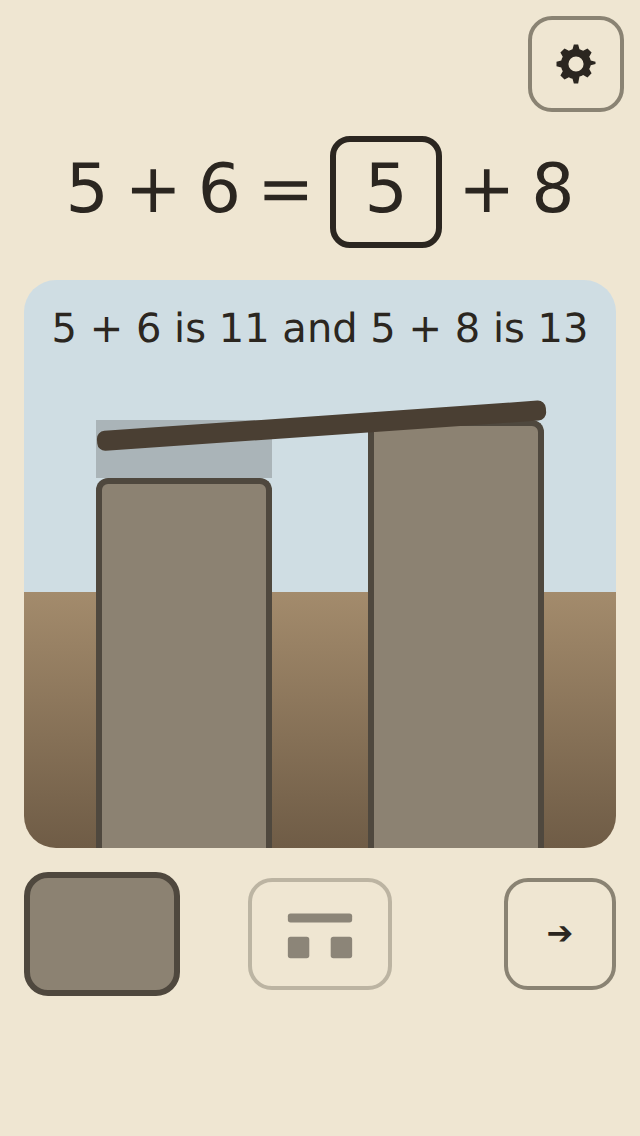
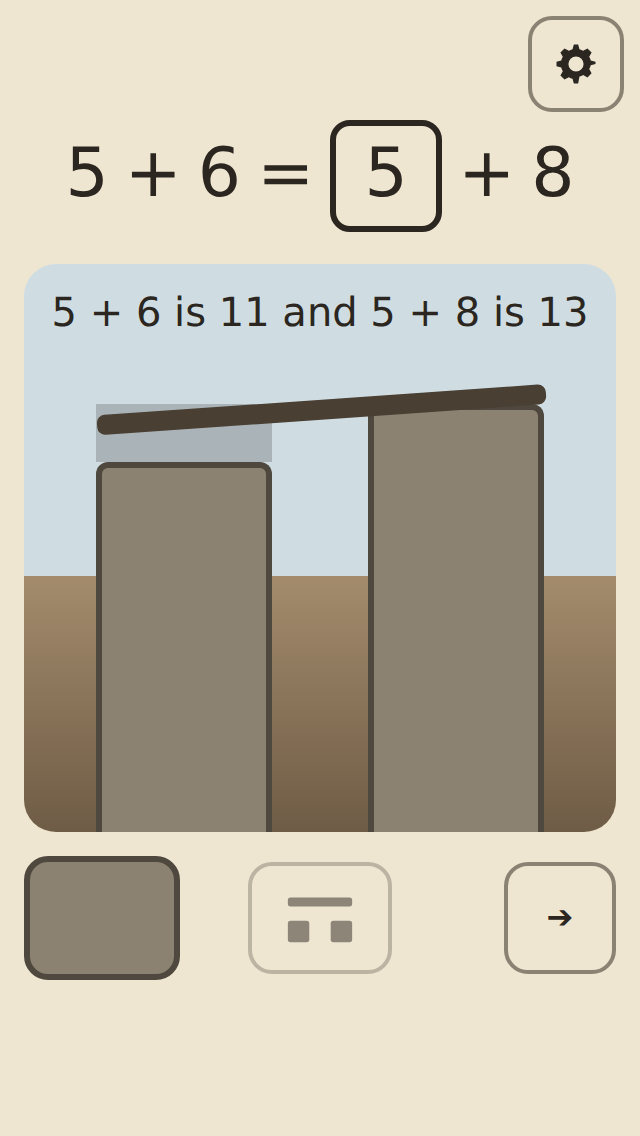
Math catalog SPAN P2 step 2: Mode 3 RELATIONAL with a stone 1, a slab 10 and a block 100, numerals on each, Shift and Page Up by keys; the equation's sides unbreakable and set smaller after shots showed a split side and the lay control under a 320x568 screen; every new law watched red
Claude-Session: https://claude.ai/code/session_01SRMtHXtJx3kNJPZ7viGJpE

diff --git a/satellites/span/main.js b/satellites/span/main.js
@@ -59,9 +59,14 @@ audio.define({
 const el = id => document.getElementById(id);
 const equationEl = el('equation'), canyon = el('canyon'), pierL = el('pier-left'), pierR = el('pier-right');
 const spanEl = el('span'), shortfall = el('shortfall'), caption = el('caption'), stack = el('stack');
-const source = document.querySelector('#supply .stone-source'), layBtn = el('lay'), nextBtn = el('next');
+const sources = Array.from(document.querySelectorAll('#supply .stone-source')), layBtn = el('lay'), nextBtn = el('next');
 const sameBtn = el('same'), apartBtn = el('apart');
-source.setAttribute('aria-label', COPY.stone);
+/* a stone is 1, a slab 10 and a block 100; in RELATIONAL each carries its numeral, the quantity on the object */
+sources.forEach(src => {
+  const value = Number(src.dataset.value);
+  src.setAttribute('aria-label', value === 100 ? COPY.block : value === 10 ? COPY.slab : COPY.stone);
+  if (MODE === 'relational') src.textContent = String(value);
+});
 layBtn.setAttribute('aria-label', COPY.lay);
 nextBtn.setAttribute('aria-label', COPY.next);
 sameBtn.setAttribute('aria-label', COPY.same);
@@ -92,19 +97,24 @@ const sideText = (terms, fill, value, first) => terms.length === 1
 /* two thirds of the way up, so the pier tops stand clear of the horizon and never read as the ground's edge */
 const neutral = () => BASE + (canyon.clientHeight - BASE - TOP_ROOM) * 2 / 3;
 
+/* each side is one group that never breaks across lines, so the equation can only wrap at the sign */
 function renderEquation() {
   equationEl.textContent = '';
-  const add = (t, side) => {
+  const add = (parent, t, side) => {
     const span = document.createElement('span');
     span.className = 'term';
     if (t.op) { span.dataset.op = t.op; span.textContent = t.op === '-' ? '−' : t.op; }
     else if (t.blank) { span.dataset.blank = ''; span.dataset.side = side; span.dataset.count = String(count); span.textContent = count ? String(count) : ''; }
     else { span.dataset.n = String(t.n); span.dataset.side = side; span.textContent = String(t.n); }
-    equationEl.append(span);
+    parent.append(span);
   };
-  eq().left.forEach(t => add(t, 'left'));
-  add({ op: '=' });
-  eq().right.forEach(t => add(t, 'right'));
+  const group = side => { const g = document.createElement('span'); g.className = 'side'; g.dataset.group = side; return g; };
+  const left = group('left'), right = group('right');
+  eq().left.forEach(t => add(left, t, 'left'));
+  eq().right.forEach(t => add(right, t, 'right'));
+  equationEl.append(left);
+  add(equationEl, { op: '=' });
+  equationEl.append(right);
 }
 
 /* while building: one neutral height for both piers, whatever the stones; the stones as a labelled stack on the
@@ -248,16 +258,17 @@ const pierAt = (x, y) => {
   return hit.closest('#stack') ? blankPier() : hit.closest('#pier-left, #pier-right');
 };
 let press = null;
-source.addEventListener('pointerdown', e => {
+sources.forEach(src => src.addEventListener('pointerdown', e => {
   if (laid) return;
   e.preventDefault();
   const ghost = document.createElement('div');
   ghost.className = 'ghost';
   ghost.style.left = e.clientX + 'px'; ghost.style.top = e.clientY + 'px';
   document.body.append(ghost);
-  press = { id: e.pointerId, x: e.clientX, y: e.clientY, ghost, stack: false };
-  press.timer = setTimeout(() => { if (press && !press.moved) { press.stack = true; addStones(5); } }, 500);
-});
+  press = { id: e.pointerId, x: e.clientX, y: e.clientY, ghost, stack: false, value: Number(src.dataset.value) };
+  /* a long press puts down five of what was pressed */
+  press.timer = setTimeout(() => { if (press && !press.moved) { press.stack = true; addStones(5 * press.value); } }, 500);
+}));
 window.addEventListener('pointermove', e => {
   if (!press || e.pointerId !== press.id) return;
   if (Math.hypot(e.clientX - press.x, e.clientY - press.y) > 12) press.moved = true;
@@ -268,7 +279,7 @@ window.addEventListener('pointerup', e => {
   clearTimeout(press.timer);
   press.ghost.remove();
   const target = pierAt(e.clientX, e.clientY);
-  if (!press.stack && target && target === blankPier()) addStones(1);
+  if (!press.stack && target && target === blankPier()) addStones(press.value);
   press = null;
 });
 let pierPress = null;
@@ -283,8 +294,9 @@ let pierPress = null;
 canyon.addEventListener('keydown', e => {
   if (e.key === 'ArrowLeft') { selected = 'left'; drawBuild(); }
   else if (e.key === 'ArrowRight') { selected = 'right'; drawBuild(); }
-  else if (e.key === 'ArrowUp') { if (selected === blankSide()) addStones(1); }
-  else if (e.key === 'ArrowDown') { if (selected === blankSide() && count > 0) setCount(count - 1); }
+  /* a stone by the arrows, a slab with Shift, a block by Page Up and Page Down */
+  else if (e.key === 'ArrowUp' || e.key === 'PageUp') { if (selected === blankSide()) addStones(e.key === 'PageUp' ? 100 : e.shiftKey ? 10 : 1); }
+  else if (e.key === 'ArrowDown' || e.key === 'PageDown') { if (selected === blankSide() && count > 0) setCount(count - (e.key === 'PageDown' ? 100 : e.shiftKey ? 10 : 1)); }
   else if (e.key === 'Enter') { if (laid) next(); else lay(); }
   else return;
   e.preventDefault();

diff --git a/satellites/span/index.html b/satellites/span/index.html
@@ -10,7 +10,13 @@
   body { background: #efe6d2; color: #2b2620; overflow-x: hidden; }
   main { max-width: 560px; margin: 0 auto; padding: 64px 12px 24px; display: flex; flex-direction: column; gap: 12px; }
   #equation { display: flex; justify-content: center; align-items: center; gap: 8px; flex-wrap: wrap; font-size: var(--type-34); min-height: 64px; font-variant-numeric: tabular-nums; }
-  #equation .term[data-blank] { min-width: 56px; min-height: 56px; box-sizing: border-box; border: 3px solid #2b2620; border-radius: 10px; display: inline-flex; align-items: center; justify-content: center; }
+  #equation .term[data-blank] { min-width: 56px; min-height: 56px; box-sizing: border-box; padding: 0 8px; border: 3px solid #2b2620; border-radius: 10px; display: inline-flex; align-items: center; justify-content: center; }
+  /* a side never breaks across lines; RELATIONAL's five three digit numbers are set a size down to hold one line */
+  #equation .side { display: inline-flex; align-items: center; gap: 8px; white-space: nowrap; }
+  body[data-mode="relational"] #equation, body[data-mode="relational"] #equation .side { gap: 4px; }
+  body[data-mode="relational"] #equation { font-size: var(--type-26); }
+  body[data-mode="relational"] #equation .term[data-blank] { min-width: 44px; min-height: 44px; padding: 0 6px; }
+  @media (max-width: 399px) { body[data-mode="relational"] #equation { font-size: var(--type-20); } }
   #canyon { position: relative; height: clamp(280px, 50vh, 420px); border-radius: 16px; background: linear-gradient(#cfdde3, #cfdde3 55%, #a38b6c 55%, #6f5c46); overflow: hidden; outline-offset: 4px; }
   .pier { position: absolute; bottom: 0; width: 30%; background: #8c8272; border: 3px solid #4f483e; border-bottom: 0; box-sizing: border-box; border-radius: 6px 6px 0 0; }
   #pier-left { left: 12%; }
@@ -31,6 +37,16 @@
   #next { grid-column: 3; justify-self: end; }
   #supply .stone-source, #lay, #next, #start { min-width: 56px; min-height: 56px; }
   #supply .stone-source { width: 72px; height: 56px; border-radius: 12px; background: #8c8272; border: 3px solid #4f483e; touch-action: none; cursor: grab; }
+  /* RELATIONAL: a stone 1, a slab 10 and a block 100, the numeral on each; the other modes keep the one stone */
+  #supply { display: flex; gap: 8px; }
+  body:not([data-mode="relational"]) #supply .stone-source:not([data-value="1"]) { display: none; }
+  body[data-mode="relational"] #supply .stone-source { width: 56px; box-sizing: border-box; display: flex; align-items: center; justify-content: center; font-size: var(--type-20); font-variant-numeric: tabular-nums lining-nums; color: #2b2620; }
+  body[data-mode="relational"] #controls { grid-template-columns: auto 1fr auto; }
+  @media (max-width: 359px) {
+    body[data-mode="relational"] #supply { grid-column: 1 / -1; justify-self: center; }
+    body[data-mode="relational"] #lay, body[data-mode="relational"] #next { grid-row: 2; }
+  }
+  @media (max-height: 600px) { main { padding-top: 56px; padding-bottom: 12px; } }
   #lay svg, .choice svg { display: block; pointer-events: none; }
   #lay[aria-disabled="true"] { opacity: 0.5; }
   /* TRUE OR NOT: two choices in place of the supply and the lay control; the chosen one keeps its mark, one look on every path */
@@ -74,7 +90,11 @@
     <div id="caption"></div>
   </div>
   <div id="controls">
-    <div id="supply"><div class="stone-source" role="button" tabindex="-1"></div></div>
+    <div id="supply">
+      <div class="stone-source" data-value="1" role="button" tabindex="-1"></div>
+      <div class="stone-source" data-value="10" role="button" tabindex="-1"></div>
+      <div class="stone-source" data-value="100" role="button" tabindex="-1"></div>
+    </div>
     <button id="lay" class="lw-btn" type="button"><svg viewBox="0 0 40 28" width="36" height="25" aria-hidden="true"><rect x="2" y="2" width="36" height="5" rx="1.5" fill="currentColor"/><rect x="2" y="15" width="12" height="12" rx="1.5" fill="currentColor"/><rect x="26" y="15" width="12" height="12" rx="1.5" fill="currentColor"/></svg></button>
     <div id="choices">
       <button id="same" class="lw-btn choice" type="button" aria-pressed="false"><svg viewBox="0 0 40 28" width="36" height="25" aria-hidden="true"><rect x="2" y="6" width="36" height="5" rx="1.5" fill="currentColor"/><rect x="3" y="11" width="12" height="16" fill="currentColor"/><rect x="25" y="11" width="12" height="16" fill="currentColor"/></svg></button>

diff --git a/satellites/span/content.js b/satellites/span/content.js
@@ -5,6 +5,8 @@
 export const COPY = Object.freeze({
   start: 'Start',
   stone: 'Stone',
+  slab: 'Slab',
+  block: 'Block',
   lay: 'Lay the span',
   next: 'Next',
   canyon: 'Canyon',

diff --git a/plans/span/HANDOFF-SPAN.md b/plans/span/HANDOFF-SPAN.md
@@ -11,6 +11,18 @@ CORE now provides, built and deployed). Where this file and the handoff differ, 
 
 ## SESSION STATE (the builder updates this at the end of every session; the morning reader starts here)
 
+- 2026-09-15, Opus: **P2 step 2 is done: Mode 3 RELATIONAL with labelled blocks** (`?mode=relational`; a stone 1, a
+  slab 10 and a block 100 with their numerals; five of a source on a long press; Shift for a slab and Page Up for a
+  block; the equation's sides unbreakable and set smaller so it holds one line and the controls stay on a 320x568
+  screen). `test/play.mjs` laws 16 to 18 and two layout laws, 133 laws, every new one watched red (F1 to F7, G1, G2);
+  ALL GATES PASSED.
+  **Next action:** P2 step 3, the ear gate, `test/audio.mjs` in CORE's shape (`satellites/math/core/test/audio.mjs`):
+  `window.SPAN.audio` exposes `sounded`, `clear` and `renderLoud`; a first load is muted (a whole round by thumb plays
+  nothing); with Sound turned on through the settings switch a dropped stone plays one seat, a long press of five plays
+  ONE seat (A1), a laid span plays one; the loudest pattern (a seat every 250 ms for 20 s) halves with the master in rms
+  and peak, renders the same twice (seeded), does not clip (peak under 0.9), is not silence, and keeps under 30 percent
+  of its energy above 3 kHz. Then step 4, the viaduct: one arch per completed run through `collectOnce` and CORE's
+  store, the next mode unlocked by a completed run.
 - 2026-09-15, Opus: **P2 step 1 is done: Mode 1 TRUE OR NOT and the mode key** (`?mode=judge`; two choices, the
   span laid on either, the mark kept and one look; items played until a true and a false one are both revealed; the
   controls row made three fixed places after a shot showed the lay control jumping under the thumb). `test/play.mjs`
@@ -543,6 +555,59 @@ Shots, all retaken (the row moved in every one), under 40 KB, the new and change
   control are different heights so the row's middles do not line up; the right third of the row is empty until next.
 - `p1-reveal-apart-320`: the gaps either side of the lay control differ; the shortfall's rectangle and the span's slant
   still say one thing twice; the caption runs to 13 px from each side.
+
+Committed as `2251065f`, deployed; served with a random probe: the page carries `id="same"` and the three place row
+once, the served `main.js` carries `JUDGED = MODE === 'judge'`, `content.js` carries "the other side is" and serves
+`200 application/javascript`.
+
+### P2 step 2, Mode 3 RELATIONAL with labelled blocks (2026-09-15)
+
+The gate first, `test/play.mjs` laws 16 to 18 (`?mode=relational`: the engine's stage 2 item, every number three digits;
+a stone 1, a slab 10 and a block 100, each a 56 px target with its numeral; each adding its own value and five of it on
+a long press; a three digit fill in fifteen actions or fewer; the reveal laws on a wrong and a right round, the same
+reveal; keys). On the TRUE OR NOT page:
+```
+  FAIL  320x568 RELATIONAL a stone 1, a slab 10 and a block 100 are 56 px targets with their numerals on them: 1 missing reads null, 10 missing reads null, 100 missing reads null
+  FAIL  375x667 RELATIONAL a stone 1, a slab 10 and a block 100 are 56 px targets with their numerals on them: 1 missing reads null, ...
+Error [TypeError]: Cannot read properties of null (reading 'getBoundingClientRect')     (the first drag, from a source that is not there)
+```
+The page (`docs/DECISIONS.md`: three labelled sources, Shift for a slab and Page Up for a block, a second row at 320).
+Live: `a block adds 100, a slab 10, a stone 1, and a long press on the slab fifty (100, 110, 111, 161)`; round 1 wrong,
+161 for 583, the piers 844 and 1266, the caption "683 + 161 is 844 and 681 + 585 is 1266"; round 2 right, `265 for 265
+in 5` actions, "699 + 265 is the same as 702 + 262"; the same reveal (0.024); by keys `{"fill":111}`; `PLAY OK`.
+
+**⛔ The shots then showed what the gate had not**: with a three digit fill the equation broke "681 + 585" across two
+lines at 375 and 320, and at 320x568 the second line pushed the lay control under the bottom of the screen. Two laws
+(`no side of the equation is split across two lines`; `the lay control and the three sources are on the screen without
+scrolling`, measured unscrolled against the visual viewport), run on that page:
+```
+  FAIL  320x568 RELATIONAL with 111 in the blank: no side of the equation is split across two lines (split: right)
+  FAIL  320x568 RELATIONAL with 111 in the blank: the lay control and the three sources are on the screen without scrolling (#lay past 568 px)
+  FAIL  375x667 RELATIONAL with 161 in the blank: no side of the equation is split across two lines (split: right)
+```
+Each side is now one unbreakable group, and RELATIONAL's equation is set at 26 px, 20 px under 400 px wide. Live: all
+four `ok`, `PLAY OK`, 133 laws. **Watched red** (session scratch `span-play-plants-p2c.cjs`, `-p2d.cjs`):
+```
+F1 the slab and block hidden in every mode  FAIL 10 missing, 100 missing, at 320 and 375; FAIL counts (0, 0, 1, 1); FAIL the fill (5 for 265)
+F2 no numerals on the sources               FAIL ... 1 56x56 reads "", 10 56x56 reads "", 100 56x56 reads "", at 320 and 375
+F3 a long press adds five stones            FAIL counts (100, 110, 111, 116); FAIL the fill (220 for 265 in 5)
+F4 every drop adds one                      FAIL counts (1, 2, 3, 53); FAIL the fill (58 for 265 in 5)
+F5 Shift ignored                            FAIL by keys ({"fill":102})
+F6 no second row at 320                     FAIL 320x568 RELATIONAL the page does not scroll sideways (12 px over 320)
+F7 RELATIONAL at stage one                  FAIL the stage 2 item, every number three digits ([{"n":67},...]); FAIL heights, tilt, caption and the engine's evaluate on both rounds
+G1 sides breakable, the full size           FAIL split (right) at 320 and 375; FAIL #lay past 568 px at 320
+G2 no smaller size under 400 px             FAIL #lay past 568 px at 320 (the sides held, the equation wrapped at the sign)
+```
+⛔ F1's first plant stayed `PLAY OK`, and it was the plant, not the law: `display: none` at the same specificity as
+RELATIONAL's `display: flex`, written earlier, hid nothing. Planted again with `!important`, red as above.
+
+Shots, all retaken (the equation's markup changed in every mode), the RELATIONAL ones opened, three faults each:
+- `p2-relational-build-375`: at 20 px five three digit numbers read small for a child; the 4 px gaps crowd "683 +"; the
+  lay control sits right of the screen's centre, centred between the supply and next's kept place.
+- `p2-relational-apart-375`: the piers carry no numbers, so only the caption says 794 and 1266; next sits close to the
+  dimmed lay control; the shortfall is a tall pale block that reads as sky more than as missing stone.
+- `p2-relational-build-320`: the lay control sits left of centre on its own row; it ends 16 px above the bottom of the
+  screen; "100" nearly fills its 56 px stone. `p1-reveal-apart-320` looks as it did before the side groups.
 
 ---
 

diff --git a/satellites/span/docs/DECISIONS.md b/satellites/span/docs/DECISIONS.md
@@ -72,6 +72,27 @@ TRUE OR NOT's `a=c` and `a+b=c` items and Mode 2's `_=c+d` make that caption oft
 "One side is 9" when it comes first and "the other side is 9" when it comes second, which keeps both values, states a
 fact and prefers neither side (S8).
 
+**RELATIONAL's supply is three sources, a stone 1, a slab 10 and a block 100, each with its numeral on it.**
+2026-09-15. Handoff step 6: nobody drags 345 stones. Each source is a 56 px target a child drags to the blank's pier, and
+a long press on one adds five of it, so any three digit fill takes at most fifteen actions (a long press and four
+drags per digit). The numeral is on the object, so the quantity is never a count of pieces a child must keep in their
+head. THE BLANK keeps its single stone, whose numbers stay small.
+
+**By keys, a slab is Shift and arrow up and a block is Page Up.** 2026-09-15. The handoff gives arrow up and down for a
+stone; a three digit fill by arrows alone is hundreds of presses. Shift with the arrows moves a slab, Page Up and Page
+Down a block, in every mode. A digit still does nothing (S5).
+
+**At 320 px RELATIONAL's supply takes its own row.** 2026-09-15. Three 56 px sources beside the lay control and next
+need 336 px, and a 320 screen has 296 inside the page's margins; below 360 px the sources sit on a row of their own over
+the lay control and next. The page's top and bottom margins shrink on screens under 600 px tall so the second row
+still fits without scrolling.
+
+**RELATIONAL's equation is set smaller, and a side is never split across lines.** 2026-09-15. Five three digit numbers
+at THE BLANK's size need about 460 px; the first RELATIONAL shots broke "681 + 585" across two lines, and at 320x568 the
+second line pushed the lay control under the bottom of the screen. The equation's two sides are now each one unbreakable
+group, and RELATIONAL sets them at the next size down (the smallest at under 360 px wide), so the equation holds one
+line on every phone and wraps, if ever, only at the sign.
+
 **No number and no blank is ever negative.** 2026-09-15. Subtraction forms put the blank in the subtrahend and on the
 right of the sign; a generator that let a result go below zero would ask a six year old for a number they have not met.
 The engine gate asserts it across every mode.
